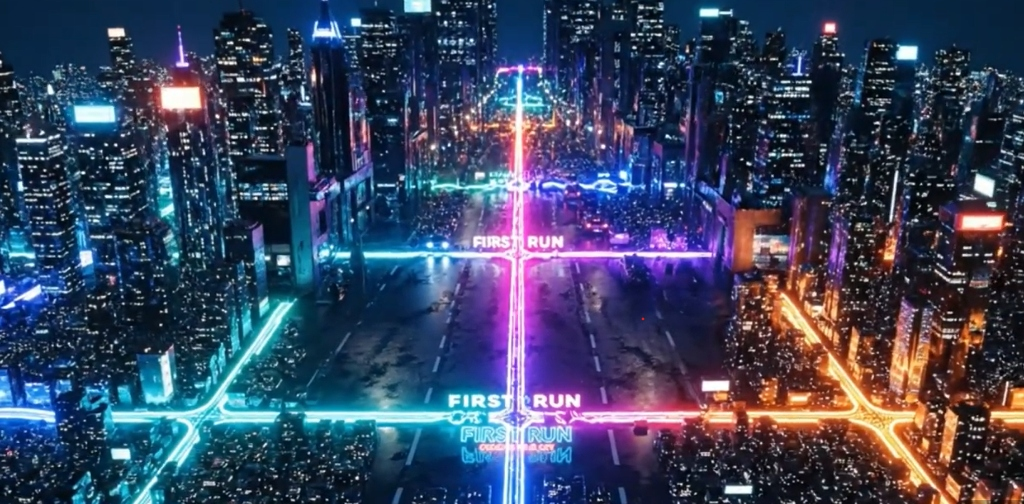
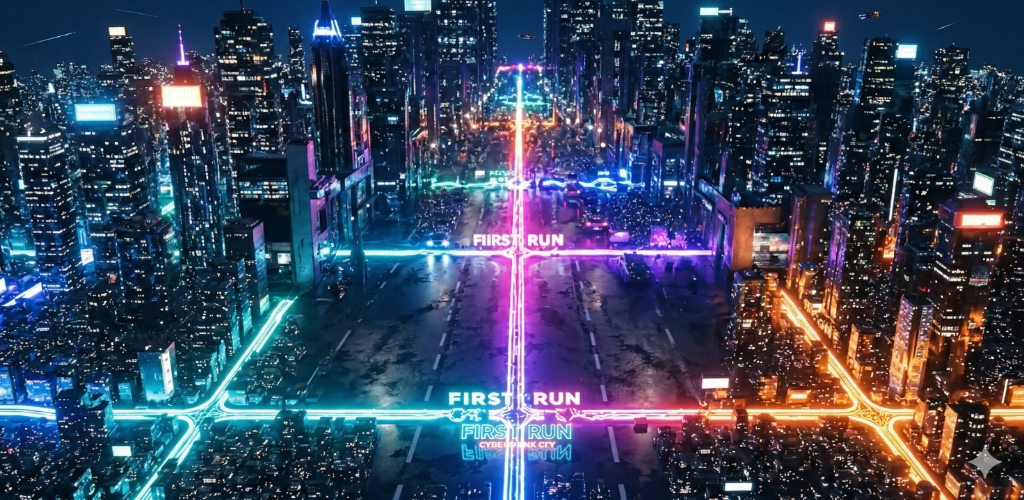
style(bg): update base city image with new highly luminous version and adjust css opacity

Changed region(s): [[0.0, 0.0, 1.0, 1.0]]

diff --git a/index.html b/index.html
@@ -88,8 +88,8 @@
 
     <!-- BACKGROUND - CYBERRUN CITY HIGH PRECISION -->
     <div class="fixed inset-0 z-0 pointer-events-none overflow-hidden">
-        <!-- Camada base da imagem 4K: Animação Ken Burns para movimento lento de câmera -->
-        <div class="absolute inset-[-5%] w-[110%] h-[110%] opacity-80 bg-[url('city_background.jpg')] bg-cover bg-center animate-kenburns"
+        <!-- Camada base da imagem 4K (NOVA): Opacidade ajustada para 50 para compensar o neon mais forte -->
+        <div class="absolute inset-[-5%] w-[110%] h-[110%] opacity-50 bg-[url('city_background.jpg')] bg-cover bg-center animate-kenburns"
             style="background-image: url('city_background.jpg');"></div>
 
         <!-- Partículas de Velocidade renderizadas via JavaScript Canvas de forma transparente -->
